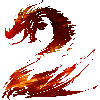
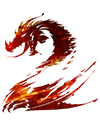
resize images in cards

diff --git a/src/components/GameSection/GameSection.js b/src/components/GameSection/GameSection.js
@@ -3,9 +3,6 @@ import './GameSection.css';
 import GameSectionCard from '../GameSectionCard/GameSectionCard';
 
 const gameSection = props => {
-    let rowCount = 3;
-
-
     return <div className="row">
         <div className="col">
             <ul className="section">
@@ -16,16 +13,16 @@ const gameSection = props => {
                     <GameSectionCard imgSrc="mc_logo.webp" title="Minecraft" line1="GameMaster: MrProfessor" line2="Support: Rizetrabzon" line3="" />
                 </li>
                 <li>
-                    <GameSectionCard imgSrc="league_icon.png" title="League of Legends" line1="Usere Server: EUW, NA" line2="Kontakt: Chαrιsmara" line3="" />
+                    <GameSectionCard imgSrc="league_icon_resized.png" title="League of Legends" line1="Usere Server: EUW, NA" line2="Kontakt: Chαrιsmara" line3="" />
                 </li>
                 <li>
-                <GameSectionCard imgSrc="discord_icon.png" title="Discord" line1="Admin: Professor#0815" line2="https://discord.gg/KSTSZsF" line3="" />
+                <GameSectionCard imgSrc="discord_icon_resized.png" title="Discord" line1="Admin: Professor#0815" line2="https://discord.gg/KSTSZsF" line3="" />
                 </li>
                 <li>
-                <GameSectionCard imgSrc="overwatch_icon.svg" title="Overwatch" line1="Usere Server: EU" line2="Kontakt: Charismara#2601" line3="" />    
+                <GameSectionCard imgSrc="overwatch_icon_resized.png" title="Overwatch" line1="Usere Server: EU" line2="Kontakt: Charismara#2601" line3="" />    
                 </li>
                 <li>
-                <GameSectionCard imgSrc="steam_icon.png" title="Steam" line1="Usere Gruppe: BlutmondGilde" line2="Leiter: Professor" line3="" />    
+                <GameSectionCard imgSrc="steam_icon_resized.png" title="Steam" line1="Usere Gruppe: BlutmondGilde" line2="Leiter: Professor" line3="" />    
                 </li>
             </ul>
         </div>

diff --git a/src/components/GameSectionCard/GameSectionCard.css b/src/components/GameSectionCard/GameSectionCard.css
@@ -17,6 +17,7 @@
     padding: 0px;
     font-size: 1.2rem;
     padding-bottom: 0.5rem;
+    margin-top: 0.75rem;
 }
 
 .card img{
